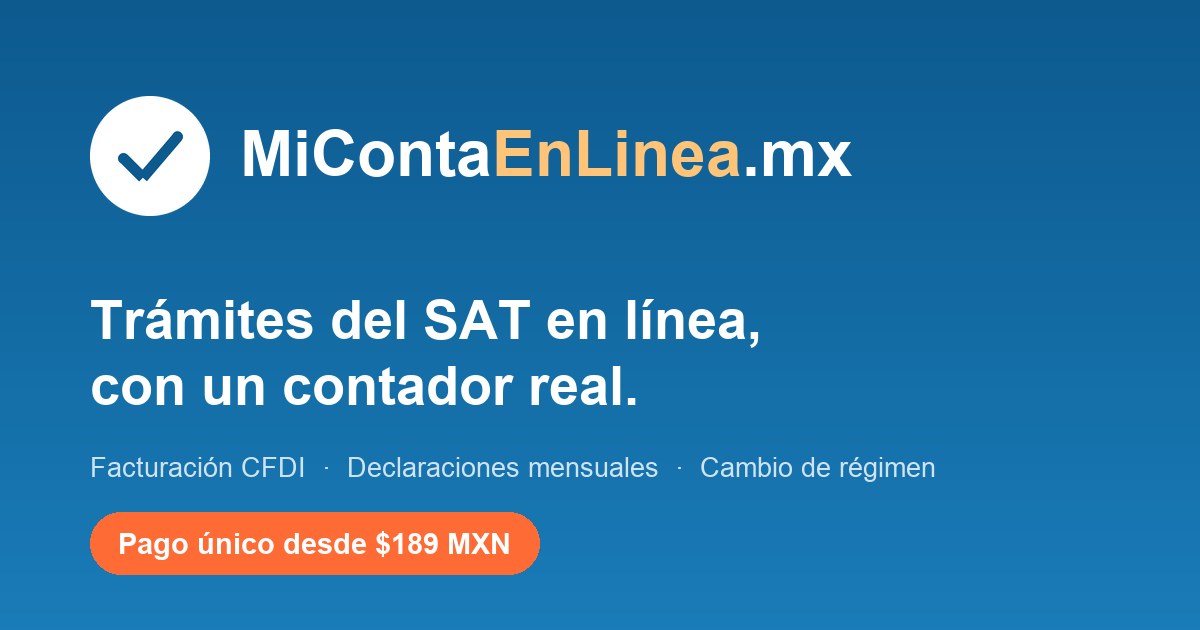
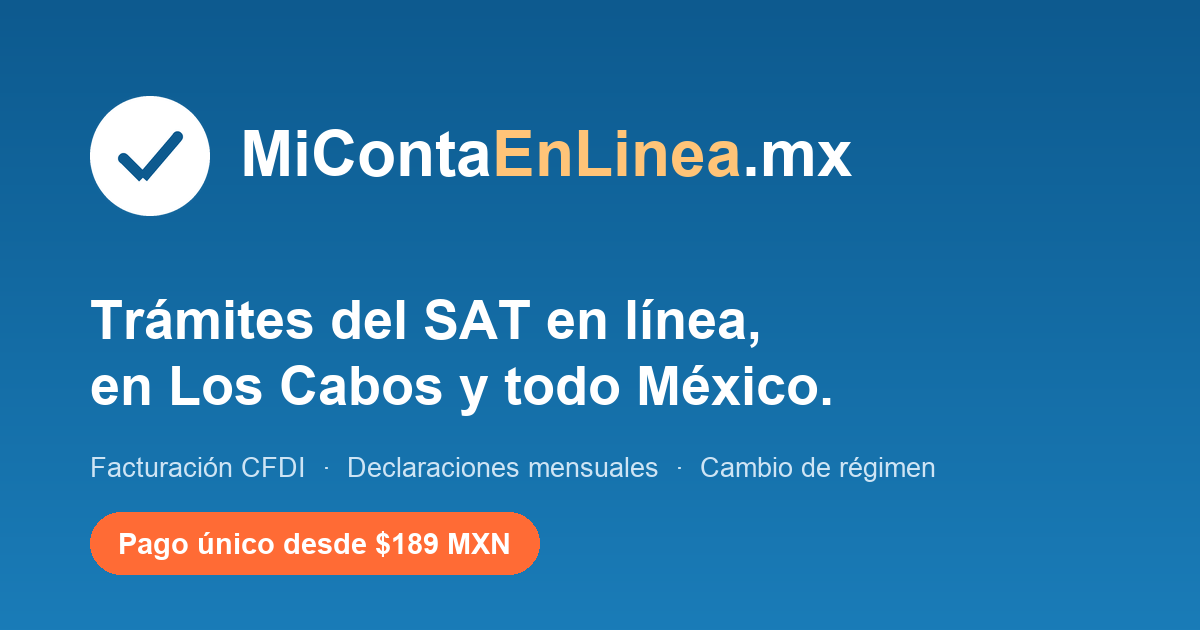
copy(og): "en Los Cabos y todo México" en lugar de "con un contador real"
"Con un contador real" invita justo a la pregunta que no queremos que nadie
se haga: ¿a diferencia de quién? Presume que el lector sospecha que del otro
lado hay un robot, y se lo recuerda en la primera impresión de la marca.

La frase nueva hace el trabajo contrario: dice dónde estamos. "Los Cabos" es
la prueba local que sirve en los grupos de por acá, y "todo México" quita el
techo geográfico que ese mismo dato podría poner.

El texto vivía sólo dentro del PNG, no en el HTML, así que se cambia en el
generador y se regenera la imagen — no en una plantilla.

Changed region(s): [[0.0617, 0.573, 0.6783, 0.6635]]

diff --git a/tools/gen-brand-images.py b/tools/gen-brand-images.py
@@ -62,7 +62,7 @@ w2 = d.textlength("EnLinea", font=font("Arial Bold.ttf", 64))
 d.text((240 + w1 + w2, 118), ".mx", font=font("Arial Bold.ttf", 64), fill=WHITE)
 
 d.text((90, 290), "Trámites del SAT en línea,", font=font("Arial Bold.ttf", 54), fill=WHITE)
-d.text((90, 356), "con un contador real.", font=font("Arial Bold.ttf", 54), fill=WHITE)
+d.text((90, 356), "en Los Cabos y todo México.", font=font("Arial Bold.ttf", 54), fill=WHITE)
 
 d.text((90, 452), "Facturación CFDI  ·  Declaraciones mensuales  ·  Cambio de régimen",
        font=font("Arial.ttf", 27), fill=(206, 228, 244))
